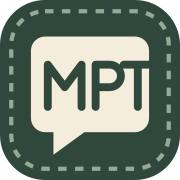
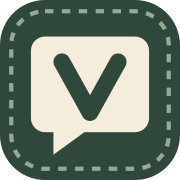
Update Site source
Source-commit: f5ddc412818381365dfc63cdf7c228f62a583cdd
Source-author-date: 2026-10-17T11:16:56Z

Changed region(s): [[0.2222, 0.2778, 0.8333, 0.6944]]

diff --git a/app/page.tsx b/app/page.tsx
@@ -35,10 +35,10 @@ async function converse(e:React.FormEvent){e.preventDefault();const text=answer.
 async function leave(){session.current++;const old=active.current;active.current='';lastMessage.current='';countdown.current=null;setRoom('');setS(null);setFeedback('');history.replaceState(null,'',location.pathname);try{await call('leave',old)}catch(e:any){setError(e.message)}}
 const sortedRooms:typeof rooms=sortRooms(rooms);const onlinePlayers=rooms.reduce((n,t)=>n+(t.count||0),0);const activeRooms=rooms.filter(t=>t.count>0).length;
 const theme=THEMES.find(t=>t.id===room);const me=s?.players.find(p=>p.id==='me');const ranking=(s?.players||[]).map(p=>({...p,reaction:liveReaction(p.reaction,s!.serverNow+Math.max(0,tick-receivedAt.current))})).sort((a,b)=>b.score-a.score||b.gain-a.gain);const remaining=countdownRemaining(countdown.current,tick)/1000;const reveal=s?.phase==='reveal';const podium=s?.phase==='podium';const done=me?.solved;
-return <><header className="topbar"><a href="/" className="brand" onClick={e=>{if(room){e.preventDefault();leave()}}}><span className="brand-mark">mpt</span><span>MPT<span className="brand-sub">DES MOTS, DU FIL ET DES AMIS</span></span></a><div className="header-right"><span className="live-tag"><i/> MULTIJOUEUR</span><button type="button" className="profile-button" disabled={!profileReady} onClick={()=>setEditorOpen(true)} aria-label={profile?"Modifier mon avatar et mon pseudo":"Créer mon profil"}>{profile&&<Avatar value={profile.avatar}/>}<span>{profile?.name||"Créer mon profil"}</span><Pencil size={14}/></button><button className="icon-button" onClick={()=>{if(!sound)unlockAudio();setSound(!sound)}} aria-label={sound?'Couper les sons':'Activer les sons'}>{sound?<Volume2 size={19}/>:<VolumeX size={19}/>}</button><button className="icon-button" aria-label="Règles du jeu" onClick={()=>setRules(true)}><Info size={19}/></button></div></header>{profileNotice&&<div className="profile-notice" role="status">{profileNotice}</div>}
+return <><header className="topbar"><a href="/" className="brand" onClick={e=>{if(room){e.preventDefault();leave()}}}><span className="brand-mark">V</span><span>VOYELLO<span className="brand-sub">DES MOTS, DU FIL ET DES AMIS</span></span></a><div className="header-right"><span className="live-tag"><i/> MULTIJOUEUR</span><button type="button" className="profile-button" disabled={!profileReady} onClick={()=>setEditorOpen(true)} aria-label={profile?"Modifier mon avatar et mon pseudo":"Créer mon profil"}>{profile&&<Avatar value={profile.avatar}/>}<span>{profile?.name||"Créer mon profil"}</span><Pencil size={14}/></button><button className="icon-button" onClick={()=>{if(!sound)unlockAudio();setSound(!sound)}} aria-label={sound?'Couper les sons':'Activer les sons'}>{sound?<Volume2 size={19}/>:<VolumeX size={19}/>}</button><button className="icon-button" aria-label="Règles du jeu" onClick={()=>setRules(true)}><Info size={19}/></button></div></header>{profileNotice&&<div className="profile-notice" role="status">{profileNotice}</div>}
 {!room?<main className="lobby"><section className="rooms-section"><div className="section-top"><div><div className="eyebrow muted">LES SALONS</div><h1>On joue où ?</h1><p className="lobby-presence" role="status">{roomsLoaded?(onlinePlayers?`${onlinePlayers} joueur${onlinePlayers>1?'s':''} dans ${activeRooms} salon${activeRooms>1?'s':''} · les plus animés en premier`:"Tout est calme. Lancez le premier salon !"):"Recherche des joueurs en ligne…"}</p></div><button type="button" className="lobby-profile" onClick={()=>setEditorOpen(true)} disabled={!profileReady}>{profile&&<Avatar value={profile.avatar}/>}<span><small>VOTRE PROFIL</small><strong>{profile?.name||'Créez votre personnage'}</strong><span>Modifier l’avatar et le pseudo <Pencil size={12}/></span></span></button></div>{error&&<div className="notice error" role="alert">{error}</div>}{feedback&&<div className="notice">{feedback}</div>}<div className="rooms-grid">{sortedRooms.map((t)=><button disabled={busy||!profileReady||t.count>=30} key={t.id} className={'room-card '+(t.count>0?'featured occupied':'')} style={{'--accent':t.color} as any} onClick={()=>join(t.id)}><div className="room-top"><span className="room-symbol">{t.icon}</span><span className="room-status"><i className={t.count?'online':''}/>{!roomsLoaded?'Chargement…':t.count?`${t.count} joueur${t.count>1?'s':''} en ligne`:'Salon au repos'}</span></div><div className="room-bottom"><small>{t.label} · {QUESTION_COUNTS[t.id as keyof typeof QUESTION_COUNTS]} réponses</small><h3>{t.name}</h3><p>{t.description}</p><div className="room-cta"><span>{t.count>=30?'Salon complet':t.count?'Rejoindre la partie':'Lancer une partie'}</span><ArrowUpRight size={23}/></div></div>{t.count>0&&<span className="featured-watermark" aria-hidden="true">✳</span>}</button>)}</div><div className="lobby-footer"><span><span className="mini-dot"/> Les salons s’éveillent avec vous. Personne ? Tout s’arrête.</span><button className="text-button" onClick={()=>setRules(true)}>Comment ça marche <ArrowRight size={15}/></button></div></section></main>:<main className="game-wrap"><div className="game-nav"><button className="text-button" onClick={leave}><ArrowLeft size={17}/> Les salons</button><span style={{color:theme?.color}}>{theme?.icon} {theme?.name}</span><button className="text-button" onClick={async()=>{try{await navigator.clipboard.writeText(location.href);setCopied(true);setTimeout(()=>setCopied(false),2000)}catch{setError('Copie le lien dans la barre d’adresse pour inviter.')}}}><Copy size={15}/>{copied?'Lien copié':'Inviter'}</button></div>{error&&<div className="notice error" role="alert">{error}</div>}<div className="game-layout"><aside className="leaderboard"><div className="board-title"><h2><Trophy size={19}/> Classement</h2><span>{s?.players.length} <Users size={14}/></span></div><p className="board-sub">Les plus rapides font la différence.</p><ol>{ranking.map((p,i)=><li key={p.id} className={(p.id==='me'?'self ':'')+(p.solved?(p.solveRank===1?'solved-first':'solved-player'):'')}><span className="rank">{String(i+1).padStart(2,'0')}</span><div className="avatar">{p.reaction?<AvatarEmote key={p.reaction.id} avatar={p.avatar} emoji={p.reaction.text} name={p.name}/>:<Avatar value={p.avatar} label={'Avatar de '+p.name} emotion={playerExpression(s?.phase||'',s?.champion,p)}/>}{s?.champion===p.id&&<span className="champion-crown" role="img" aria-label="Vainqueur de la partie précédente" title="Vainqueur de la partie précédente">👑</span>}</div><div className="player-name"><strong>{p.name}{p.id==='me'&&<small> vous</small>}</strong><span>{podium&&s?.champion===p.id?'Gagne le match !':p.solved?(p.solveRank===1?'Premier à trouver !':'A trouvé !'):'Dans la partie'}</span></div><b>{p.score}<small>pts</small></b>{p.solved&&<Check size={14} className="solved-check"/>}</li>)}</ol><div className="my-reactions"><button type="button" className="reaction-toggle" aria-expanded={emotePicker} onMouseDown={e=>e.preventDefault()} onClick={()=>setEmotePicker(!emotePicker)}><Avatar value={me?.avatar||profile?.avatar} animated={false}/> Réagir avec mon personnage</button>{emotePicker&&<div className="avatar-emotes" aria-label="Choisir une émote">{EMOTE_OPTIONS.map(emoji=><button key={emoji} type="button" aria-label={'Réagir : '+EMOTE_DETAILS[emoji].label} title={EMOTE_DETAILS[emoji].label} onMouseDown={e=>e.preventDefault()} onClick={()=>sendEmote(emoji)}><AvatarEmote avatar={me?.avatar||profile?.avatar} emoji={emoji} preview/><span className="emote-option-label">{EMOTE_DETAILS[emoji].label}</span></button>)}</div>}</div><div className="board-note"><Sparkles size={17}/><p>Trouvez vite, marquez plus.<br/><strong>100 à 1 000 points par manche.</strong></p></div><div className="join-note"><i/> On peut rejoindre à tout moment.</div></aside><section className={'arena '+(reveal?'revealing':'')}><div className="arena-top"><span className="eyebrow">{podium?'PARTIE TERMINÉE':s?.phase==='countdown'?'ON SE PRÉPARE':`MANCHE ${s?.round||0} / 10`}</span><div className={'timer '+(remaining<4&&!reveal?'urgent':'')}><Timer size={19}/><b>{Math.ceil(remaining)}</b><span>s</span></div></div><CountdownBar clock={countdown.current} remaining={remaining}/><div className="round-dots">{Array.from({length:10},(_,i)=><i key={i} className={i+1==s?.round?'current':i+1<(s?.round||0)?'past':''}/>)}</div>
 {s?.phase==='countdown'?<div className="countdown"><span className="eyebrow">LE SALON EST OUVERT</span><div className="countdown-num">{Math.ceil(remaining)}</div><h2>Prêt pour le déclic ?</h2><p>Les voyelles ont quitté la pièce.<br/>À vous de retrouver les mots.</p></div>:podium?<div className="podium"><Trophy size={48}/><div className="eyebrow">LE MOT DE LA FIN</div><h2>{ranking[0]?.score?ranking[0].name+' prend la tête !':'Les mots ont résisté !'}</h2><p>10 manches, {s?.players.length} joueur{s?.players.length!==1?'s':''}, et quelques déclics.</p><div className="podium-bars">{ranking.slice(0,3).map((p,i)=><div key={p.id} style={{'--height':(130-i*30)+'px'} as any}><b>{['①','②','③'][i]}</b><Avatar value={p.avatar} label={'Avatar de '+p.name} emotion={playerExpression(s?.phase||'',s?.champion,p)}/><strong>{p.name}</strong><span>{p.score} pts</span></div>)}</div><p>Nouvelle partie dans {Math.ceil(remaining)} s</p></div>:<>{reveal?<AnswerReveal question={s?.question} label={THEMES.find(t=>t.id===s?.question?.theme)?.label} art={art} onImageError={()=>setArt({url:null})}/>:<div className="puzzle"><div className="category-chip">{THEMES.find(t=>t.id===s?.question?.theme)?.label} <span>•</span> {s?.question?.words} mot{s?.question?.words!==1?'s':''}</div><div className="masked" key={s?.round}>{s?.question?.masked?.split(' ').map((w,i)=><span key={i}>{w||'·'}</span>)}</div><p className="puzzle-prompt">{done?'Bien vu. Voyons si les autres ont le déclic !':'Les consonnes sont là. À vous de faire le lien.'}</p><div className="round-clue" role="status">{s?.question?.clue?<><Sparkles size={15}/><span><strong>Indice</strong> {s.question.clue}</span></>:<span className="clue-wait">Un indice arrive à 10 secondes restantes.</span>}</div></div>}{reveal?<div className="reveal-caption"><Check size={18}/>{s?.players.filter(p=>p.solved).length} / {s?.players.length} ont trouvé<span>Prochaine manche dans {Math.ceil(remaining)} s</span></div>:null}</>}
 
 {burst&&<div className="particles" aria-hidden="true">{Array.from({length:22},(_,i)=><i key={i} style={{'--x':Math.cos(i*2.4)*220+'px','--y':Math.sin(i*2.4)*180+'px','--r':i*35+'deg','--c':i%2?'#cfb372':'#93ab94'} as any}/>)}</div>}</section><section className="room-chat" aria-label="Réponses et discussion"><div className="chat-heading"><h2>Le fil du salon</h2><span>{s?.phase==='guess'?(done?'🔒 Entre ceux qui ont trouvé':'Réponses en direct'):'Discussion ouverte'}</span></div><div className="chat-log" ref={chatLog} role="log" aria-label="Messages du salon" aria-live="polite" aria-relevant="additions" onScroll={()=>{const el=chatLog.current;if(el)chatAtBottom.current=el.scrollHeight-el.scrollTop-el.clientHeight<45;}}>{!s?.messages?.length?<p className="chat-empty">Les propositions apparaissent ici. Trouvez la réponse pour discuter avec les autres gagnants !</p>:s.messages.filter(m=>m.kind!=='emote').map(m=><div className={'chat-line '+m.kind+' '+(m.kind==='correct'&&m.solveRank===1?'first-solve':m.result||(m.kind==='guess'?'incorrect':''))} key={m.id}><strong>{m.name}</strong><span>{m.kind==='correct'?(m.solveRank===1?'🏆 ':'✓ '):m.private?'🔒 ':''}{m.text}{m.kind==='guess'&&<em>{m.result==='close'?'Proche !':'Ce n’est pas ça'}</em>}</span><small><time dateTime={m.at===undefined?undefined:new Date(m.at).toISOString()} title="Heure du message">{messageTime(m.at)}</time> · M{m.round||'–'}</small></div>)}</div><form className={'answer-form chat-composer '+(done?'success-form':'')} onSubmit={converse}><label className="sr-only" htmlFor="answer">{s?.phase==='guess'&&!done?'Votre réponse':'Votre message'}</label><input id="answer" ref={input} autoComplete="off" maxLength={200} value={answer} onChange={e=>setAnswer(e.target.value)} onKeyDown={e=>{if(e.key!=='ArrowUp'||e.nativeEvent.isComposing||e.altKey||e.ctrlKey||e.metaKey||e.shiftKey||e.currentTarget.value!==''||!lastMessage.current)return;e.preventDefault();const text=lastMessage.current;setAnswer(text);requestAnimationFrame(()=>input.current?.setSelectionRange(text.length,text.length));}} placeholder={s?.phase==='guess'?(done?'Discuter entre ceux qui ont trouvé…':'Votre réponse…'):'Écrire au salon…'}/><button aria-label={s?.phase==='guess'&&!done?'Envoyer la réponse':'Envoyer le message'} disabled={!answer.trim()} onMouseDown={e=>e.preventDefault()}><Send size={21}/></button></form><p className="composer-status" role="status">{feedback||(s?.phase==='guess'&&done?'Messages visibles uniquement aux joueurs qui ont trouvé.':'Entrée pour envoyer · ↑ dernier message · petites fautes tolérées')}</p></section></div></main>}
-<footer className="site-footer"><span>MOINS DE LETTRES. PLUS DE DÉCLICS.</span><span>MPT © 2026</span></footer>
+<footer className="site-footer"><span>MOINS DE LETTRES. PLUS DE DÉCLICS.</span><span>VOYELLO © 2026</span></footer>
 {editorOpen&&profileReady&&<ProfileEditor initial={profile} legacyName={name} onSave={saveProfile} onCancel={profile?()=>{setEditorOpen(false);pendingRoom.current='';}:undefined} inRoom={!!room}/>}{rules&&<div className="modal-backdrop" onClick={()=>setRules(false)}><section className="rules-modal" role="dialog" aria-modal="true" aria-label="Règles du jeu" onClick={e=>e.stopPropagation()}><button autoFocus className="close-modal" onClick={()=>setRules(false)} aria-label="Fermer">×</button><div className="eyebrow">LE MODE D’EMPLOI</div><h2>Les règles du déclic.</h2><ol><li><strong>Entrez dans un salon.</strong> Une partie commence même en solo. Invitez vos amis avec le lien.</li><li><strong>Retrouvez les voyelles.</strong> A, E, I, O, U et Y sont retirés. Les espaces et consonnes restent : BNJR → Bonjour.</li><li><strong>20 secondes pour répondre.</strong> 1 000 points au départ, jusqu’à 100 à la fin. Les essais sont gratuits. Accents, ligatures œ/æ, espaces et ponctuation sont ignorés. Une petite faute est acceptée sur les mots assez longs ; une réponse voisine déclenche « Tu es proche ».</li><li><strong>Tout le monde a trouvé ?</strong> Révélation immédiate, sinon à la fin du chrono. La réponse reste affichée 5 secondes.</li><li><strong>Un fil pour jouer et discuter.</strong> Avant de trouver, vos messages sont des propositions publiques. Après avoir trouvé, vous discutez uniquement avec ceux qui ont trouvé ; ces messages deviennent visibles à tous lors de la révélation. Un indice apparaît lorsqu’il reste 10 secondes. Les émotes publiques apparaissent uniquement sur les personnages, avec un son propre à chacune, sans délai entre les réactions. Un son annonce chaque bonne réponse : une mélodie pour la vôtre, deux notes pour les autres. Les sons se coupent avec le bouton haut-parleur. Votre marionnette sourit quand vous trouvez, éclate de joie si vous êtes premier et devient euphorique si vous gagnez le match.</li><li><strong>10 manches, un classement.</strong> Arrivée en cours autorisée avec 0 point ; les joueurs déjà présents gardent leurs scores. Nouvelle partie après une minute de podium. Le vainqueur précédent conserve une couronne tant qu’il reste dans le salon.</li></ol><p>Un joueur sans connexion pendant 12 secondes quitte le salon. Si tous partent, la partie est remise à zéro. Aucun minuteur serveur ni tâche planifiée ne tourne pour un salon vide.</p><p className="small-muted">Les illustrations sont chargées à la révélation depuis Wikipédia / Wikimedia Commons. Leur disponibilité dépend du service ; les crédits sont accessibles sur la fiche source.</p><button className="primary" onClick={()=>setRules(false)}>J’ai le déclic <ArrowRight size={18}/></button></section></div>}</>}

diff --git a/app/layout.tsx b/app/layout.tsx
@@ -3,5 +3,5 @@ import './globals.css';
 import './puppet.css';
 import './answer-reveal.css';
 import './emotes.css';
-export const metadata:Metadata={title:'MPT — Les mots se défilent, à vous de jouer.',description:'20 secondes, des consonnes et un déclic. Un jeu de culture générale multijoueur.',icons:{icon:[{url:'/favicon.svg?v=3',type:'image/svg+xml'},{url:'/favicon-32.png?v=3',type:'image/png',sizes:'32x32'}],shortcut:'/favicon.ico?v=3',apple:{url:'/apple-touch-icon.png?v=3',sizes:'180x180',type:'image/png'}}};
+export const metadata:Metadata={title:'VOYELLO — Les mots se défilent, à vous de jouer.',description:'20 secondes, des consonnes et un déclic. Un jeu de culture générale multijoueur.',icons:{icon:[{url:'/favicon.svg?v=4',type:'image/svg+xml'},{url:'/favicon-32.png?v=4',type:'image/png',sizes:'32x32'}],shortcut:'/favicon.ico?v=4',apple:{url:'/apple-touch-icon.png?v=4',sizes:'180x180',type:'image/png'}}};
 export default function Layout({children}:{children:React.ReactNode}){return <html lang="fr"><head>{["/puppets/v2/heads.webp","/puppets/v2/hair.webp","/puppets/v2/outfits.webp","/puppets/v2/noses.webp","/puppets/eyes.webp?v=5","/puppets/mouth.webp?v=5","/puppets/parts.webp?v=5"].map(src=><link key={src} rel="preload" as="image" href={src}/>)}</head><body>{children}</body></html>}
